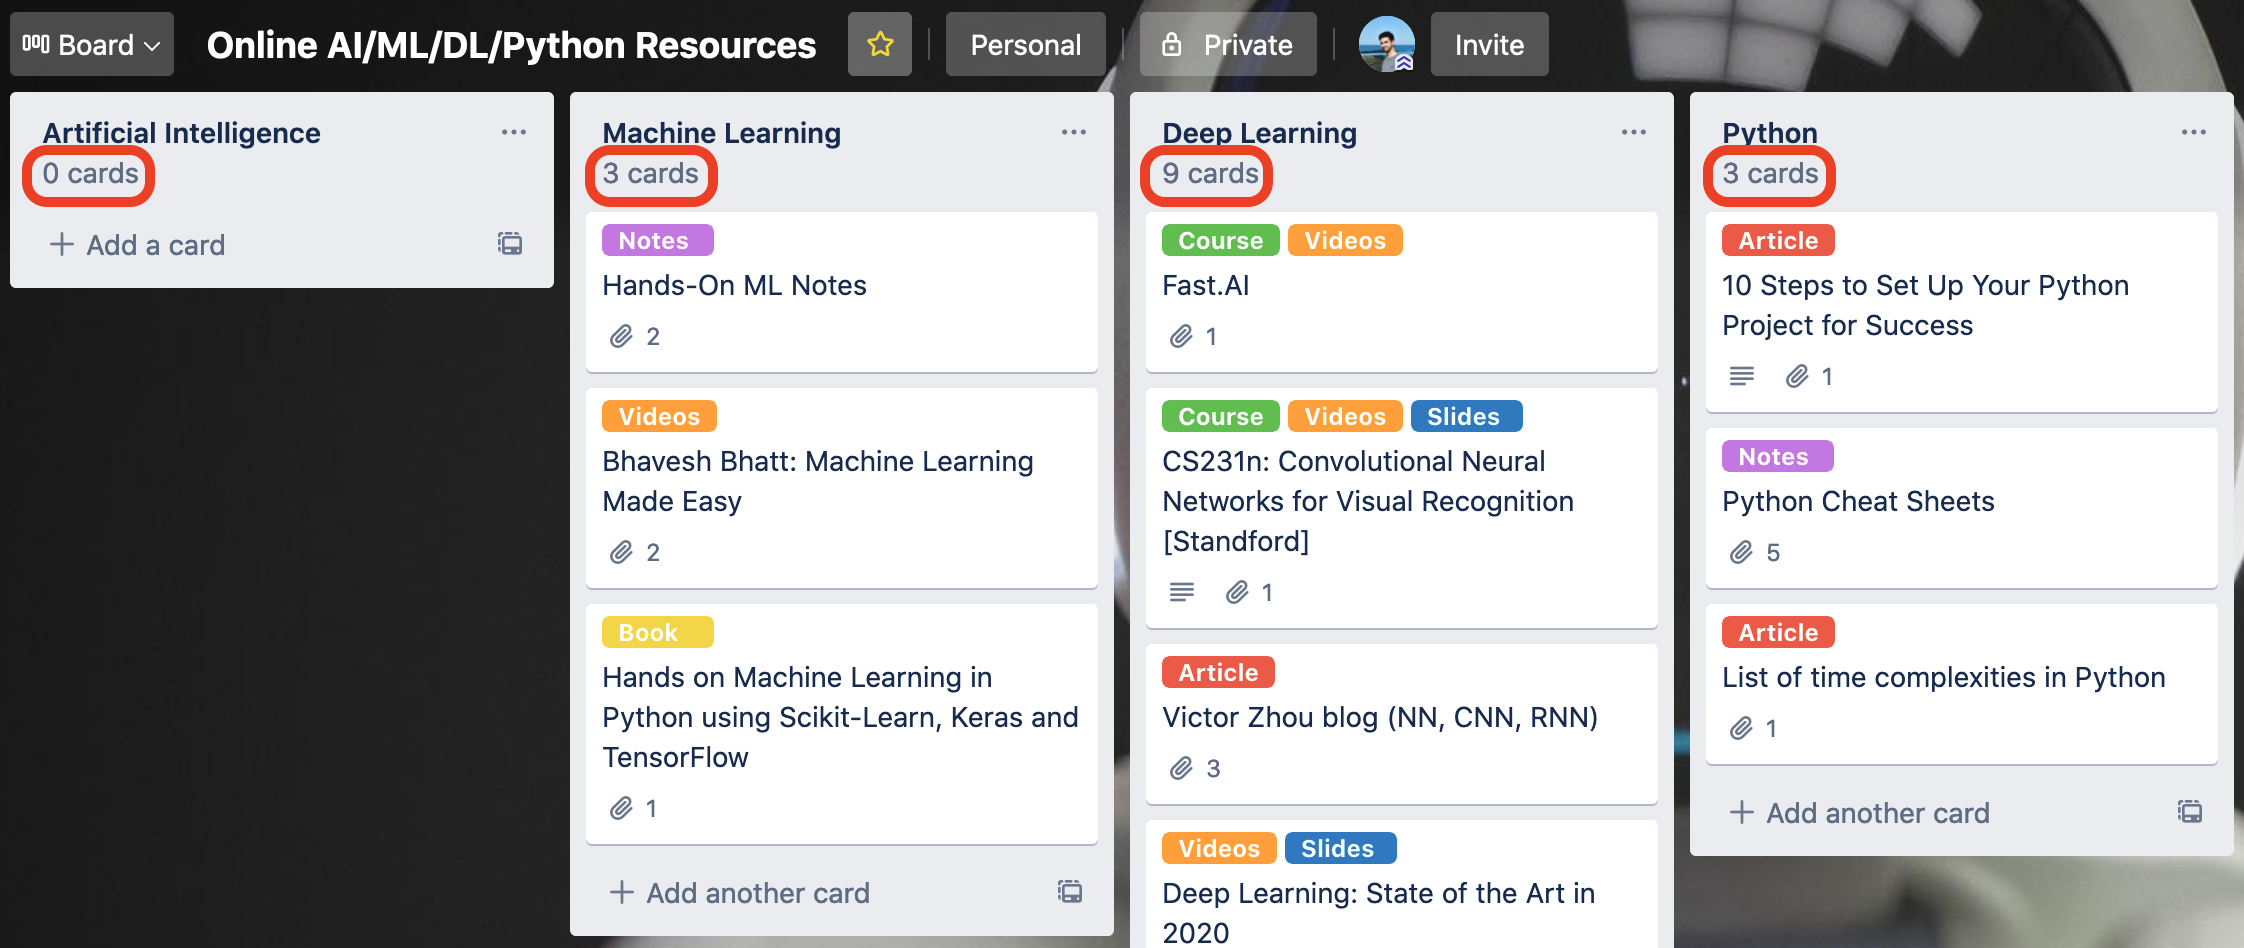
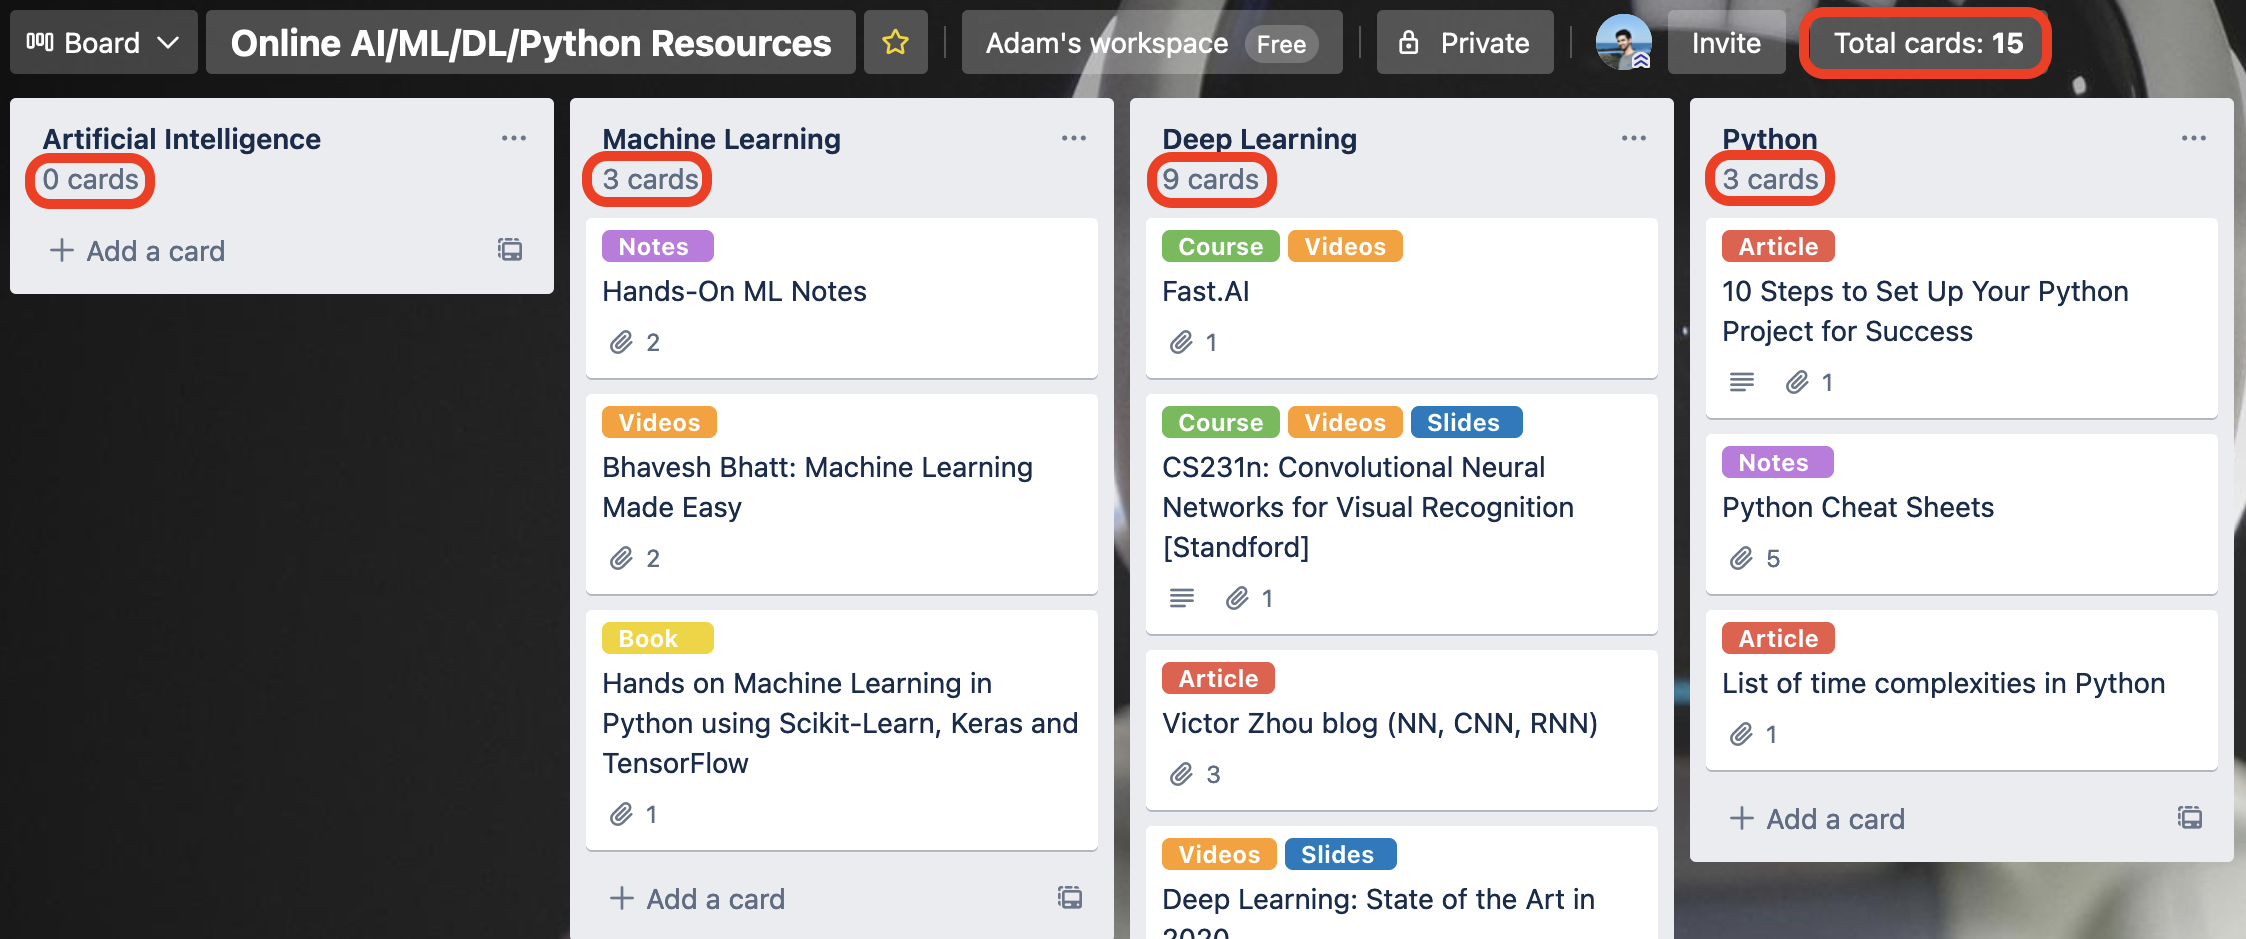
Update README

Changed region(s): [[0.0, 0.0, 1.0, 1.0]]

diff --git a/README.md b/README.md
@@ -2,7 +2,11 @@
 
 [![GitHub stars](https://img.shields.io/github/stars/Adamouization/Trello-Card-Counter-Mozilla-Extension)](https://github.com/Adamouization/Trello-Card-Counter-Mozilla-Extension/stargazers) [![GitHub forks](https://img.shields.io/github/forks/Adamouization/Trello-Card-Counter-Mozilla-Extension)](https://github.com/Adamouization/Trello-Card-Counter-Mozilla-Extension/network) [![GitHub issues](https://img.shields.io/github/issues/Adamouization/Trello-Card-Counter-Mozilla-Extension)](https://github.com/Adamouization/Trello-Card-Counter-Mozilla-Extension/issues) [![GitHub license](https://img.shields.io/github/license/Adamouization/Trello-Card-Counter-Mozilla-Extension)](https://github.com/Adamouization/Trello-Card-Counter-Mozilla-Extension/blob/master/LICENSE)
 
-A Mozilla Firefox extension that counts the number of cards in each column of any Trello board. The interactive toggle switch allows users to switch between showing the card count and hiding the card count on Trello boards.
+Trello Card Counter is a Mozilla Firefox extension that helps Trello users increase their productivity output, while keeping the sleek and elegant design of original Trello boards.
+
+It helps by counting the number of cards in each column and by counting the total number of cards across any Trello board. 
+
+The interactive toggle switch allows users to switch between showing and hiding the card counts in any Trello board.
 
 [![](assets/get-the-addon-178x60px.dad84b42.png)](https://addons.mozilla.org/firefox/addon/trello-card-count/)
 
@@ -10,18 +14,18 @@ A Mozilla Firefox extension that counts the number of cards in each column of an
 
 <p align="center">
  <img src="assets/screenshot_popup.png" width="222">
- <br>Screenshot of the extension's popup.
+ <br>Screenshot of the extension's UI popup.
 </p>
 
 <p align="center">
  <img src="assets/screenshot_count.png" width="888">
- <br>Screenshot of the card count in each column.
+ <br>Screenshot of the total card count and the card count for individual columns.
 </p>
 
 
 ## Installation Instructions
 
-Either download from the [Firefox Browser Add-Ons store](https://addons.mozilla.org/firefox/addon/trello-card-count/) or manually install using instructions below:
+Either download from the [Firefox Browser Add-Ons store](https://addons.mozilla.org/firefox/addon/trello-card-count/) to get the official/updated version or manually install using instructions below:
 
 * Open Firefox.
 
@@ -36,6 +40,16 @@ Either download from the [Firefox Browser Add-Ons store](https://addons.mozilla.
 ## Usage
 
 From any of your Trello boards, click on the extension icon in the top-right taskbar to reveal the number of cards in each column. Use the button alternate between showing and hiding the card count.
+
+## Releases
+
+GitHub releases:
+
+* [v1.0](https://github.com/Adamouization/Trello-Card-Counter-Mozilla-Extension/releases/tag/v1.0) (11/11/2020)
+* v1.1
+
+Mozilla releases:
+* [Version history](https://addons.mozilla.org/en-US/firefox/addon/trello-card-count/versions/)
 
 ## To Do
 * see [TODOs: Initial Release](https://github.com/Adamouization/Trello-Card-Counter-Mozilla-Extension/projects/1) project.
